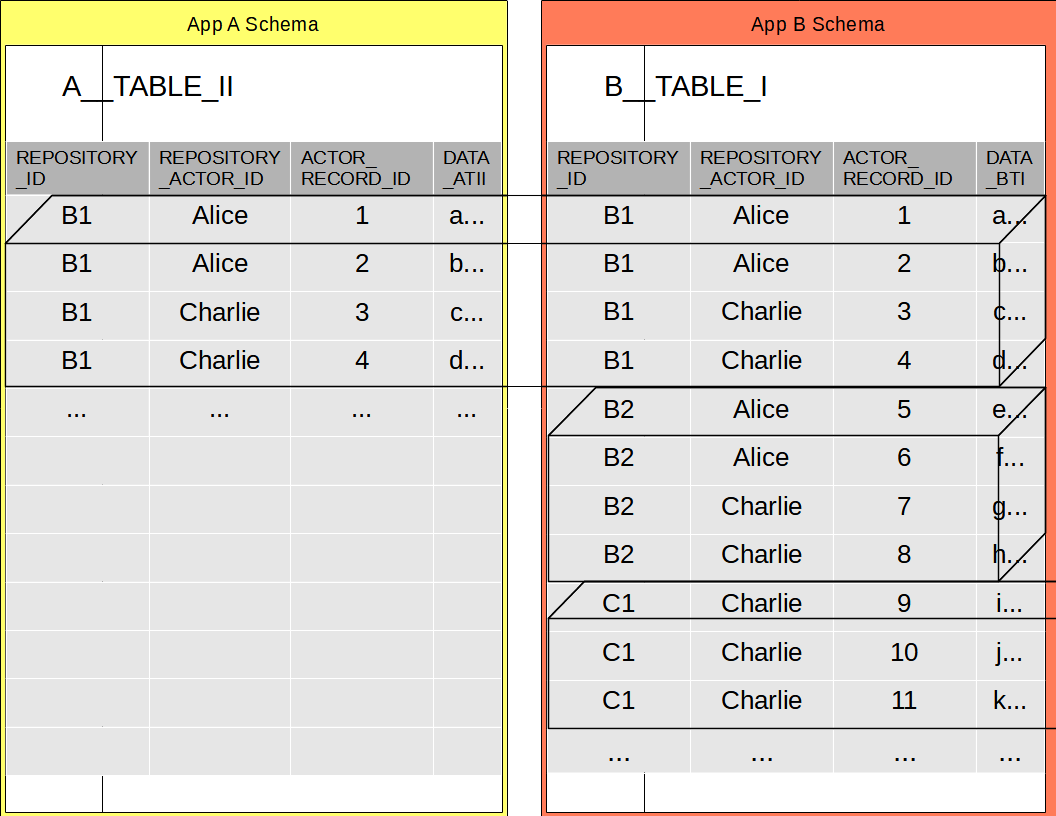
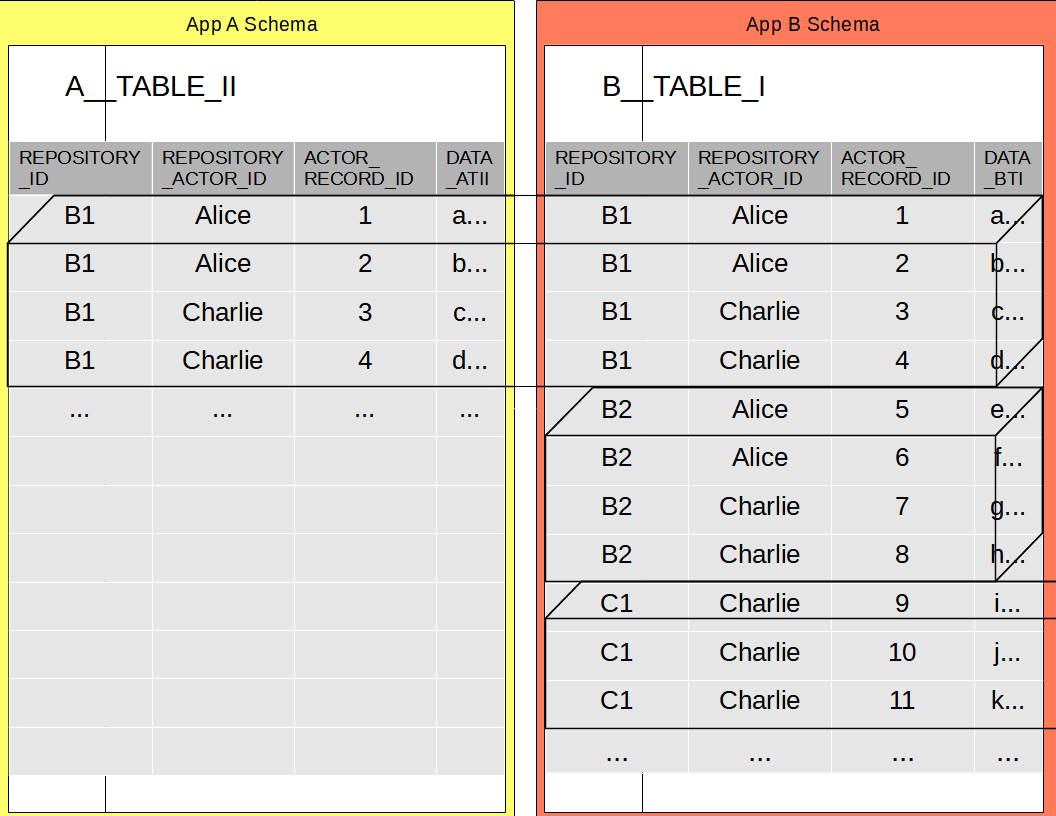
Added a tie in to the seed application (Votecube). Minor changes to pictures.

diff --git a/open-grant-proposals/autonomous-interdependent-repositories.md b/open-grant-proposals/autonomous-interdependent-repositories.md
@@ -22,7 +22,8 @@ with complex data schemas.
 
 - Our solution:
 
-AIRport is a reference implementation of [Autonomous Interdependent Repositories](https://patents.google.com/patent/US10902016B2).
+AIRport is a reference implementation of
+[Autonomous Interdependent Repositories](https://patents.google.com/patent/US10902016B2).
 
 AIRport provides a net-like relational database of Repositories.  Repositories
 are virtual databases, each with its own transaction log.  Each Repository has
@@ -81,8 +82,11 @@ changes in the state of repositories shared between their members (based on some
 
 - The risks:
 
-Project is completely thought out and largely coded with a granted patent, risks of getting it wrong
-  are minimal.
+Project is completely thought out and largely coded with a granted patent, risks of 
+getting it wrong mostly related to it being "developed in a vacuum".  In order to
+ensure that AIRport does not diverge from requirements of real applications we
+are developing a seed application - Votecube.  Votecube has a complex relational
+schema and various persistence and validation needs.
 
 The seed project is completely thought out and its most complex part is coded,
   the need for automatic reviews of articles based on multiple dimensions is
